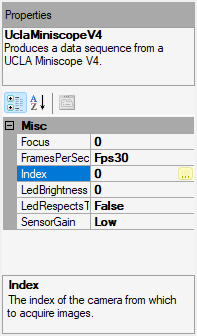
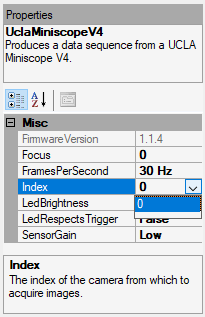
update index drop-down and remove includes

diff --git a/source/Getting-Started/index.rst b/source/Getting-Started/index.rst
@@ -114,20 +114,13 @@ Testing the Miniscope's Functionality
         selected from ``Bonsai.Miniscope.V4Frame`` to be visualized.
 
 
-#.  Set the ``UCLAMiniscopeV4`` operator's ``Index`` property to the value that corresponds to the index of your miniscope.
+#.  Using the drop-down list, set the ``UCLAMiniscopeV4`` operator's ``Index`` property to the value that corresponds to the index of your miniscope. 
 
-    ..  grid::
-        
-        ..  grid-item::
-            :columns:   3
+    ..  image:: /_static/images/uclaminiscopev4-properties.webp
+        :align: center
+        :alt:   screenshot of UCLAMiniscopeV4 node properties for index
 
-            ..  image:: /_static/images/uclaminiscopev4-properties.webp
-                :align: center
-                :alt:   screenshot of UCLAMiniscopeV4 node properties for index
-
-        ..  grid-item::
-            
-            ..  include::  /includes/set-index.rst
+..  note::  If there is no value populated in the drop-down, check the hardware connections. If there are multiple Miniscope DAQs connected to your PC, iterate through the index values while testing the node's functionality to verify what index corresponds to each miniscope. 
 
 #.  Start the Bonsai workflow by left-clicking the green *Start* button at the top of the Bonsai workflow editor or by pressing ``F5``. Once the workflow is running, you can test various features:
 